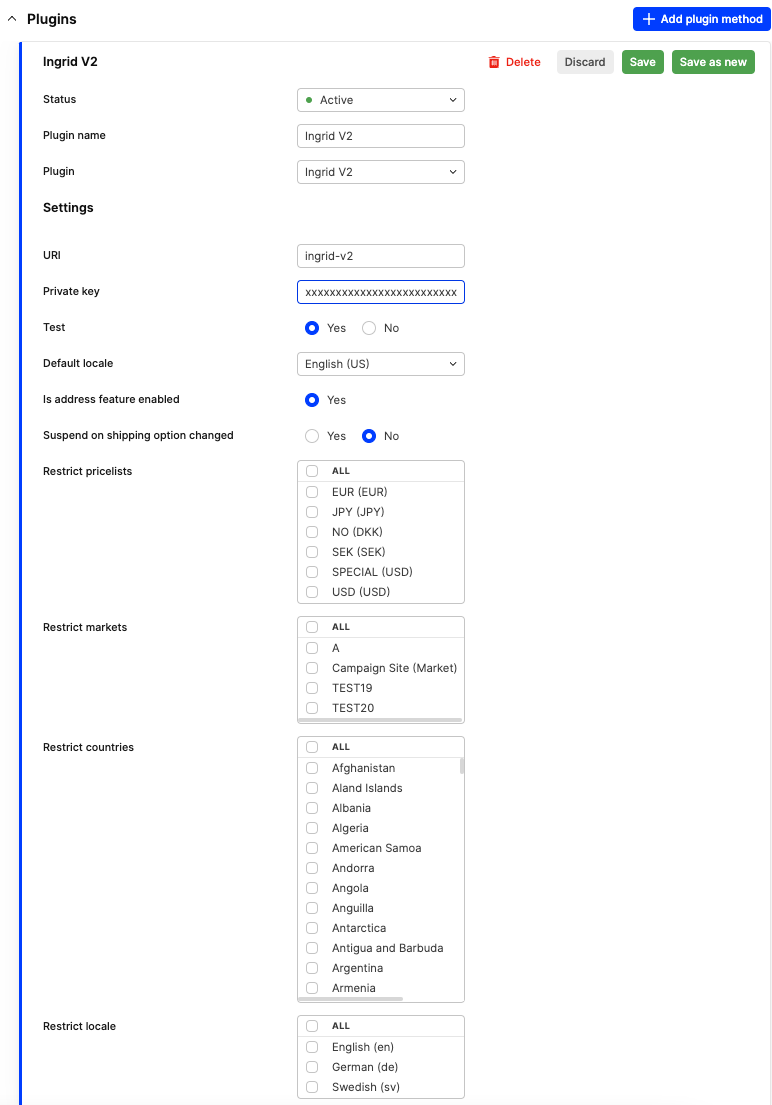
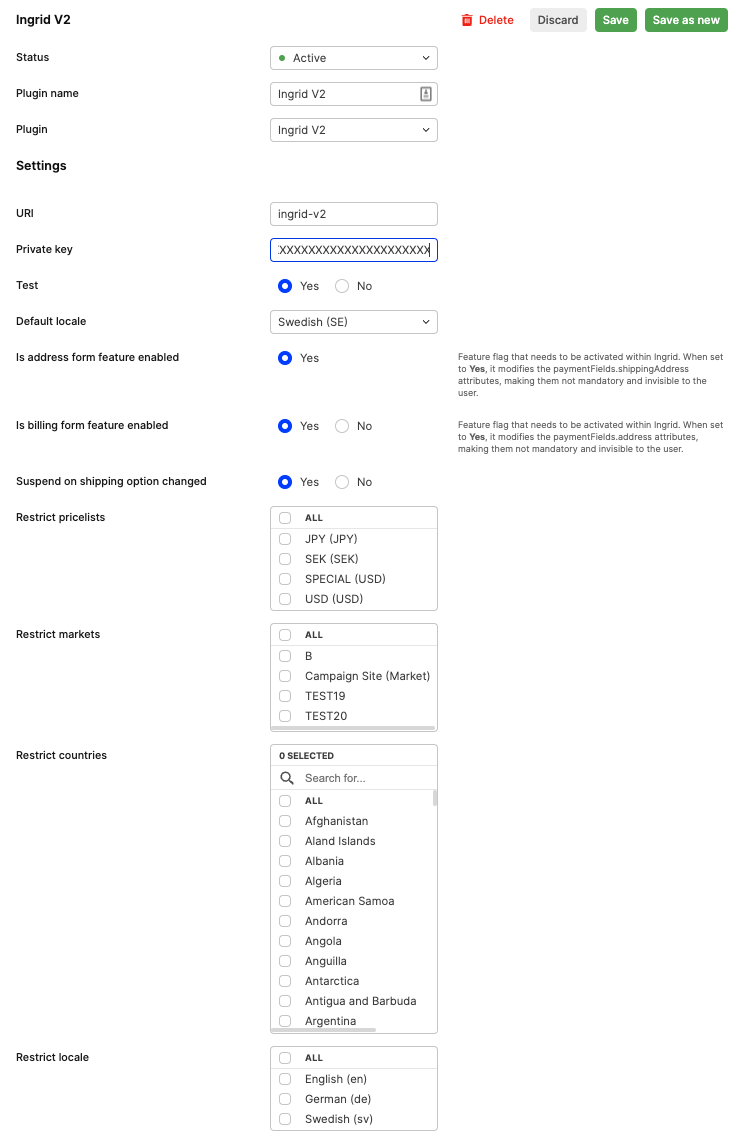
[DTCT-844] Update IngridV2 docs

diff --git a/pages/03.fe-development/ingridv2-implementation/docs.md b/pages/03.fe-development/ingridv2-implementation/docs.md
@@ -27,9 +27,14 @@ The settings in the plugin affect the integration in the following way:
 
 - **Test**: If set to `yes` Centra will connect to Ingrid's `stage` environment, if set to `no` Centra will connect to Ingrid's `production` environment.
 - **Default Locale**: The locale (language) the widget will be shown in by default, if a proper locale is set on the selection Centra will tell Ingrid to try to use the selection's language instead. If Ingrid doesn't support the locale on the selection, the default locale will be used.
-- **Is address feature enabled**: Enabled by default. If set to `yes` Ingrid's widget will present address form for the customer to provide their address and information required for delivery processing purposes. Updates of the address information are send to Centra using Centra CheckoutScript that is a handler of client side events.
+- **Is Address Form Feature Enabled:** This feature is enabled by default. If set to `yes`, it signifies your confirmation that the address feature is activated for your Ingrid merchant account. Ingrid widget will present an address form for the customer to provide their address and information required for delivery processing purposes. Updates of the address information are sent to Centra using the Centra CheckoutScript, which handles client-side events.
   [notice-box=info]
-  In order to enable address feature on Ingrid side, you should contact Ingrid support.
+  Before enabling address form feature setting in the plugin, please contact Ingrid support to enable it on Ingrid's side.
+  [/notice-box]
+- **Is Billing Form Feature Enabled**: Disabled by default. If set to `yes`, it signifies your confirmation that the billing form feature is activated for your Ingrid merchant account. When enabled, Ingrid will present a "Billing to" section and a "Same as delivery" checkbox. If the checkbox is selected, it indicates that the billing address is the same as the delivery address. If the checkbox is unmarked, a separate billing form will be presented for customers to provide specific billing information.
+  Updates to the address information are sent to Centra using the Centra CheckoutScript, which handles client-side events. Please note, the billing form feature is only available when the address form feature is enabled.
+  [notice-box=info]
+  Before enabling billing form feature setting in the plugin, please contact Ingrid support to enable it on Ingrid's side.
   [/notice-box]
 - **Suspend Ingrid widget on shipping option changed**: If set to `yes` Ingrid's widget will be put into a "loading state" whenever the shipping option is changed by the user until Centra has recevied the update. It is important that your front end picks up those changes and resumes the widget when ready.
 - **Update address in Ingrid's widget from address stored on basket in Centra**:
@@ -67,15 +72,58 @@ Centra will save the ID of the initialized Ingrid session, and update the shippi
 
 - All selection item and voucher updates are send as Ingrid session updates from Centra 
 - Centra will update the shipping cost of the selection with the cost returned by Ingrid after the update.
-- Address updates on the selection are only sent to Ingrid if they are made by the [PUT payment-fields](https://docs.centra.com/swagger-ui/?api=CheckoutAPI#/4.%20selection%20handling%2C%20checkout%20flow/put_payment_fields) endpoint in Centra's CheckoutAPI (or [PUT /selections/{selection}/checkout-fields](https://docs.centra.com/swagger-ui/?api=ShopAPI#/default/put_selections__selection__checkout_fields) in ShopAPI) and if the `Update address in Ingrid's widget from address stored on basket in Centra:` option in the Ingrid plugin is set to `On address pre-fill (default)`. This is to prevent Centra from overriding any choice made in the Ingrid widget by the user, which could cause a change of Shipping option, depending on the setup. If Centra already has address data at the time when the Ingrid session is created, this will be sent to Ingrid (since there is nothing to override).
+- [*When address feature is disabled*] Address updates on the selection are only sent to Ingrid if they are made by the [PUT payment-fields](https://docs.centra.com/swagger-ui/?api=CheckoutAPI#/4.%20selection%20handling%2C%20checkout%20flow/put_payment_fields) endpoint in Centra's CheckoutAPI (or [PUT /selections/{selection}/checkout-fields](https://docs.centra.com/swagger-ui/?api=ShopAPI#/default/put_selections__selection__checkout_fields) in ShopAPI) and if the `Update address in Ingrid's widget from address stored on basket in Centra:` option in the Ingrid plugin is set to `On address pre-fill (default)`. This is to prevent Centra from overriding any choice made in the Ingrid widget by the user, which could cause a change of Shipping option, depending on the setup. If Centra already has address data at the time when the Ingrid session is created, this will be sent to Ingrid (since there is nothing to override).
 - When Ingrid address form is updated and events are forwarded from Frontend to Centra
 - On country / state change.
 - All data is sent to Ingrid after the order is placed in Centra, including the final cart and customer address. Centra saves the data returned from Ingrid as `Custom Attributes` on the order.
 
 ### When does Ingrid update Centra?
 
-- On events from the widget forwarded to Centra from the frontend partner (see Frontend Implementation).
-- Centra always updates shipping price based on what Ingrid respond when Centra updates Ingrid.
+In the checkout process, Centra checkout script listens to events emitted by the Ingrid widget and forwards them to Centra.
+
+#### Events Tracked by Centra's Checkout Script
+
+1. **"summary_changed" Event:** Triggered whenever there are updates in the summary details, such as changes in the delivery or billing addresses. On detecting this event, Centra's script sends an `ingrid_v2_address_change` event request to Centra to reflect these changes.
+
+2. **"data_changed" Event:** Fires when there are modifications in the checkout data.
+Centra's script scans for updates in several key attributes including: 
+   - `delivery_type_changed`,
+   - `external_method_id_changed`, 
+   - `price_changed`, 
+   - `search_address_changed`, 
+   - `shipping_method_changed`
+
+If any of these attributes have changes, an `ingrid_v2_shipping_option_changed` event request is sent to Centra.
+
+## Fallback Form During Ingrid API Service Unavailability
+
+Centra provides a fallback form when the Ingrid API service is unavailable under certain circumstances. This ensures the continuity of the customer checkout experience without interruption.
+
+### Scenarios for Fallback Form Usage
+
+The fallback form is presented in the following situations when the Ingrid API service is unavailable:
+
+1. When a customer adds an item to an empty selection.
+2. When a customer updates their selection.
+3. When a customer changes their shipping/billing address.
+4. When a customer changes their shipping option.
+
+During these scenarios, Centra includes visible `address` and `shippingAddress` fields in the `paymentFields` response. The frontend implementation should use these fields to construct the fallback form.
+
+### Error Response Indicating Fallback Form Usage
+
+In response, the `selection.pluginFields` property contains the following object:
+
+```json
+"pluginFields": {
+  "ingrid": {
+    "version": 2,
+    "error": "No Ingrid-session created",
+    "deliveryOptionsAvailable": false
+  }
+}
+```
+This response indicates that the Ingrid widget is unavailable, which prompts the frontend to construct a fallback form. Consequently, customers can continue with their checkout experience smoothly, even when the Ingrid API service is temporarily unavailable.
 
 ## Frontend implementation
 
